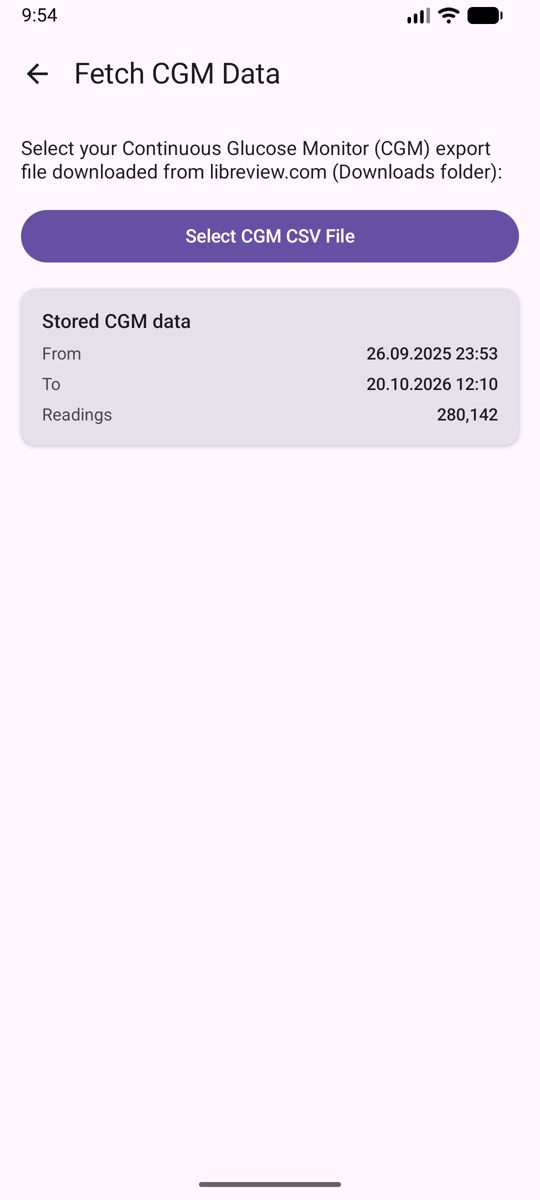
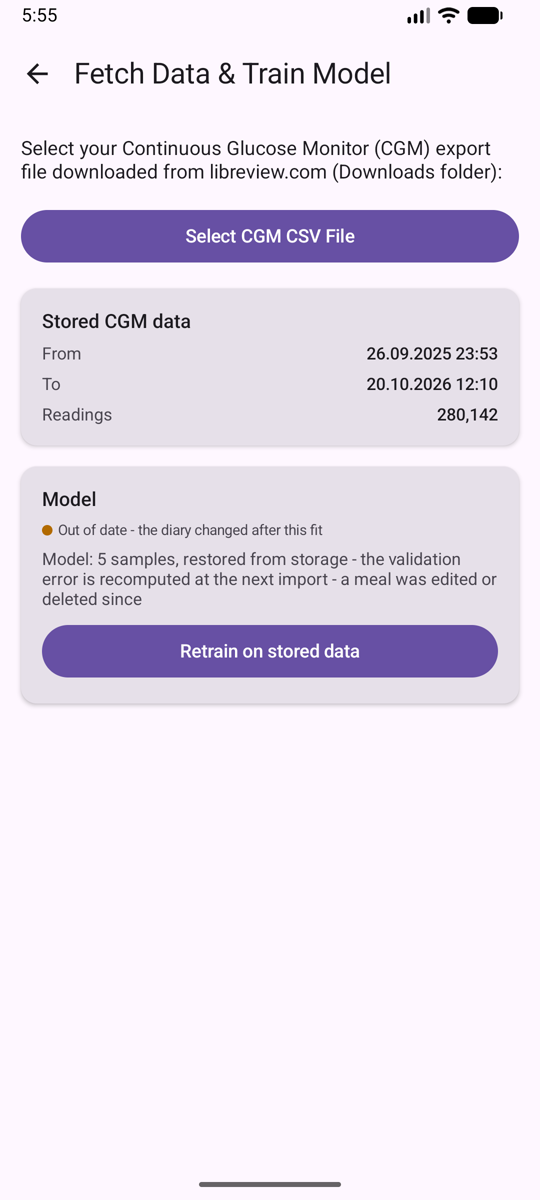
doc: the merged import-and-train step, two false claims corrected
The loop now treats importing and training as one stage, with reviewing history and reviewing the model's performance marked optional, and ends on what a reader needs rather than on stage numbers: a meal becomes training data once an import covers the four hours after it, which is why a fresh install has nothing to suggest from, and the validation error beside a dose says what that dose is worth.

The time-zone trap named the wrong trigger and the wrong symptom - ZoneId carries rules, so a DST boundary resolves every instant correctly, while a change of device zone leaves earlier entries aiming their 4 h lookup at the wrong hour until the meal reads as pending. 'More insulin never predicts more glucose' was also false: the slope is a fitted coefficient that the interactions make time-varying, and on five seeded meals it was positive at 22 of 24 hours. The claim that the recorded data cannot be exported is dropped, since the History screen writes CSV.

Main menu and fetch screenshots recaptured at 540x1200 to match the others: four buttons in their new order, and the fetch screen in its stale state with the model card out of date and the retrain button active.

diff --git a/README.md b/README.md
@@ -44,36 +44,37 @@ estimate for every hour that also knows which meals produced it.
 
    Date, time, blood glucose, carbs and long-acting insulin are recorded. The short-acting dose is
    deliberately absent at this point, because the app is about to propose one.
-
-2. **<u>Import CGM readings</u>**
-
-   The LibreView CSV is the only route for glucose data into the app, and only English exports are
-   parsed.
-
-3. **<u>The entry becomes a training row.</u>**
-
-   That happens once the imported readings cover the moment four hours after the meal. Until then
-   the entry is pending, which is the normal state rather than a failure.
-
-4. **<u>A model is trained</u>**
-
-   One ridge fit over every labelled entry.
-
-5. **<u>A dose is proposed</u>**
+2. **<u>A dose is proposed</u>**
 
    Doses from 1 to 25 units in half-unit steps are run through the model, and the one whose
    predicted four-hour glucose comes closest to 90 mg/dL is shown. When no dose reaches the 90 to
    140 band, the screen states that instead of presenting the nearest miss as advice.
 
-6. **<u>Chosen dose and predicted dose are stored.</u>**
+3. **<u>Actual dose and predicted dose are stored.</u>**
 
    That pair is what the analysis screen later uses to compare the model's judgement with the
    patient's.
 
-Meals without an import produce no labels, and labels without a fit produce no suggestion, so the
-loop only turns when stages 1, 2 and 4 all happen. Prediction itself is not gated on sample count: a
-model with three labelled entries answers exactly as one with three hundred does, and the validation
-error shown beside the number is what says how much reliance that number supports.
+4. **<u>Import CGM readings & train the model</u>**
+
+   The LibreView CSV is the only route for glucose data into the app; those readings are connected
+   to the meal data. The resulting training data is used to train a Ridge regression model as soon
+   as the import lands.
+
+5. **<u>_Optional_: Review diary history</u>**
+
+   Delete or make changes to entries. (Results in a stale model that should be retrained. No
+   re-import needed.)
+
+6. **<u>_Optional_: Review the model's performance</u>**
+
+   A graph showing the model's learned ICR across the span of the day, as well as indicators for when
+   the model starts to outperform the user's 'predictions'.
+
+A meal only becomes training data once an import covers the four hours after it, which is why a
+fresh install has nothing to suggest from and says as much. Three labelled meals are required for a 
+model to exist. The validation error beside each dose is what tells you how much that number is
+worth.
 
 ## Benchmarking Model vs Patient
 
@@ -95,13 +96,13 @@ so a bias in its bolus coefficient biases every verdict the same way.
 
 <table>
   <tr>
-    <td align="center" width="33%"><img src="images/main.png" width="230" alt="Main menu with New Entry, Fetch Data, History, Model Performance Analysis and Train Model buttons, plus a status line reporting the trained model"><br><sub><b>Main menu</b><br>Train, and see how much the model can be trusted</sub></td>
+    <td align="center" width="33%"><img src="images/main.png" width="230" alt="Main menu with New Entry, History, Fetch Data and Train Model and Model Performance Analysis buttons, plus a status line reporting the trained model"><br><sub><b>Main menu</b><br>Record a meal, import and train, look back, or read the evidence</sub></td>
     <td align="center" width="33%"><img src="images/enter-data.png" width="230" alt="Enter data screen with date, time, blood glucose, carbohydrates and long-acting insulin fields"><br><sub><b>Record a meal</b><br>No short-acting dose yet, that is decided next</sub></td>
     <td align="center" width="33%"><img src="images/review.png" width="230" alt="Review screen: the entry as labelled values, then either a suggested dose in large type with its predicted glucose, or an amber warning that no dose reaches the range; below that the model's accuracy and the disclaimer, and a field for the dose actually injected"><br><sub><b>Review and prediction</b><br>The suggestion, its error, and why it may not be trustworthy</sub></td>
   </tr>
   <tr>
     <td align="center" width="33%"><img src="images/history.png" width="230" alt="History list of meal cards: date and time with the injected dose on the right, a coloured status dot for trainable or pending, the starting glucose and carbs as two labelled columns, and the predicted against the actual 4 h value"><br><sub><b>History</b><br>Which meals are trainable, what actually happened, and a way to fix a typo</sub></td>
-    <td align="center" width="33%"><img src="images/fetch-data.png" width="230" alt="Fetch data screen showing the stored CGM span from first to last reading and the total row count"><br><sub><b>Import CGM data</b><br>File picker, reports the time span the import covers</sub></td>
+    <td align="center" width="33%"><img src="images/fetch-data.png" width="230" alt="Fetch data and train screen: the file picker, a Stored CGM data card with the first and last reading and 280,142 rows, and a Model card marked out of date above a retrain button"><br><sub><b>Import and train</b><br>The import refits the model; the card says when the fit is out of date</sub></td>
     <td align="center" width="33%"><img src="images/analysis.png" width="230" alt="Analysis screen with three cards. Your data: 8 meals recorded, 5 carry a suggestion, 5 have a verified 4 h value, average misprediction 33 mg/dL. Insulin-Carb-Ratio throughout the day: a chart with labelled axes from 00:00 to 24:00, the user's doses as purple dots against the model's flat green line. Model vs User performance: a strip of coloured squares, green for the model, purple for the user, grey for undecided"><br><sub><b>Analysis</b><br>ICR by hour, and visual indicator/s for when the model begins to outperform the user</sub></td>
   </tr>
 </table>
@@ -125,15 +126,9 @@ recorded meals count as clean training data:
   hours. They do not require meals at fixed times.
 - **Regular imports.** A label comes from imported CGM data. An un-imported week is an untrainable
   week.
-- **One fixed time zone.** No offset is stored with a reading, so a device zone change between an
-  import and a training run, for instance because the user travels, shifts every label by the offset
-  difference. The numbers then mean nothing, without any error being raised. The app should be used
-  in one zone; after moving, re-import and retrain.
-
-Any of the six recorded values can be corrected or deleted from history. Editing the meal discards
-the suggestion made for the old version instead of leaving a stale number, and the model is marked
-stale until retrained.
-
+- **One fixed time zone.** Readings carry no UTC offset, so travelling or changing the zone manually 
+  before a meal is assigned its corresponding 4 hour later glucose level, makes the lookup aim at
+  the wrong hour. Do not switch timezones between making an entry importing corresponding CGM data.
 ## The model
 
 **Estimator.** Ridge regression, solved in closed form in the app: no framework, no model file, no
@@ -163,8 +158,13 @@ Gaussian elimination with partial pivoting, on a 10 by 10 system. Main effects c
 the four interaction columns carry `lambda * 10`, so on thin data the fit collapses toward constant
 factors and only bends into a time-varying curve when the rows support it.
 
-**Consequences of staying linear.** Prediction is linear in `bolus`, so `d(glucose_4h)/d(bolus)` is
-constant and the sweep is monotone: more insulin never predicts more glucose. A tree or a forest was
+**Consequences of staying linear.** Prediction is linear in `bolus`, so the sweep is a straight line
+at any given hour - and because the bolus terms are interacted with `sin t` and `cos t`, the slope of
+that line changes across the day instead of being one number. Linearity makes the curve *straight,
+not falling*: the slope is a fitted coefficient, and on five seeded meals it came out positive at 22
+of the 24 hours, so the sweep ran backwards and the app reported its closest miss at the lowest dose.
+Nothing checks the sign of that coefficient; a wrong slope is visible on the analysis chart, where the
+model's line goes flat or rises. A tree or a forest was
 rejected because its output is piecewise constant, which makes the whole sweep flat and arbitrary
 exactly where a counterfactual dose question is asked. A neural net was rejected because it needs far
 more rows, extrapolates unpredictably, and its factors cannot be read off.
@@ -235,7 +235,7 @@ What is not yet built:
   larger meal than anything in the diary is extrapolated without complaint.
 - The four-hour spacing requirement is stated but not checked. A second meal inside the window
   silently degrades that label.
-- No configurable target band or horizon, and no export of the recorded data.
+- No configurable target band or horizon.
 
 # Privacy and legal
 
